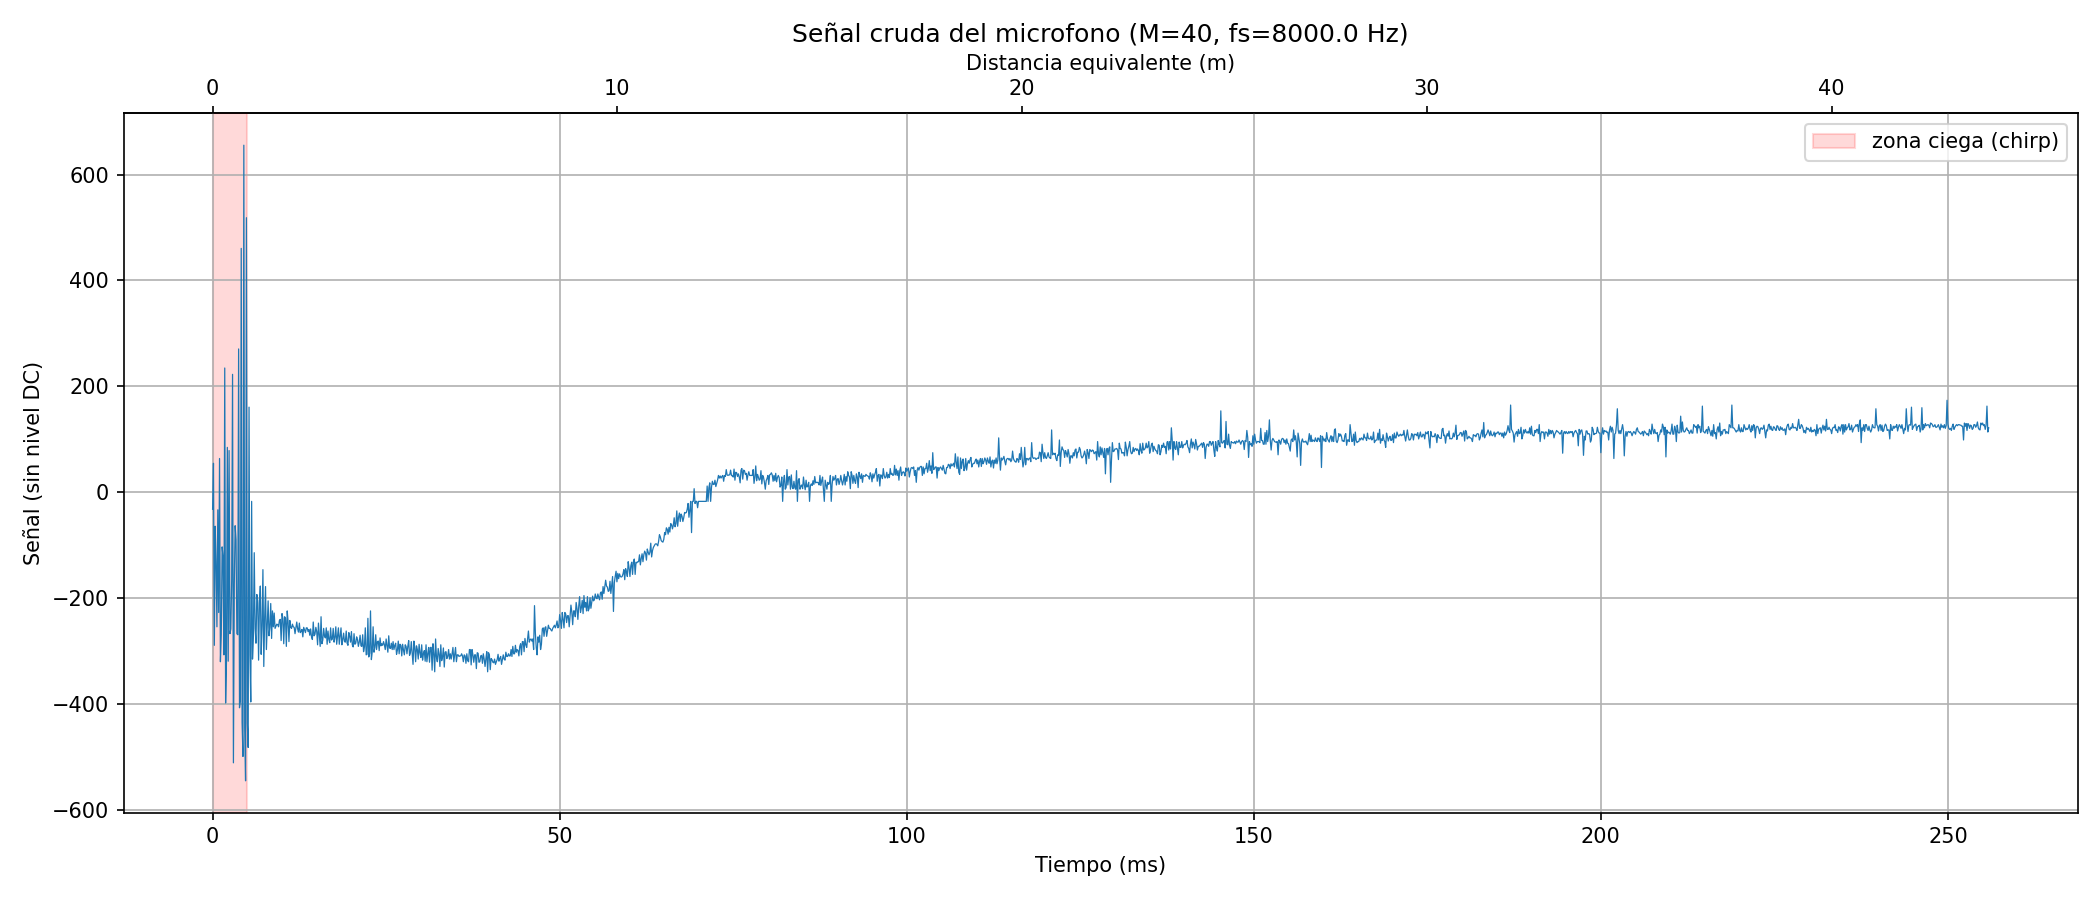
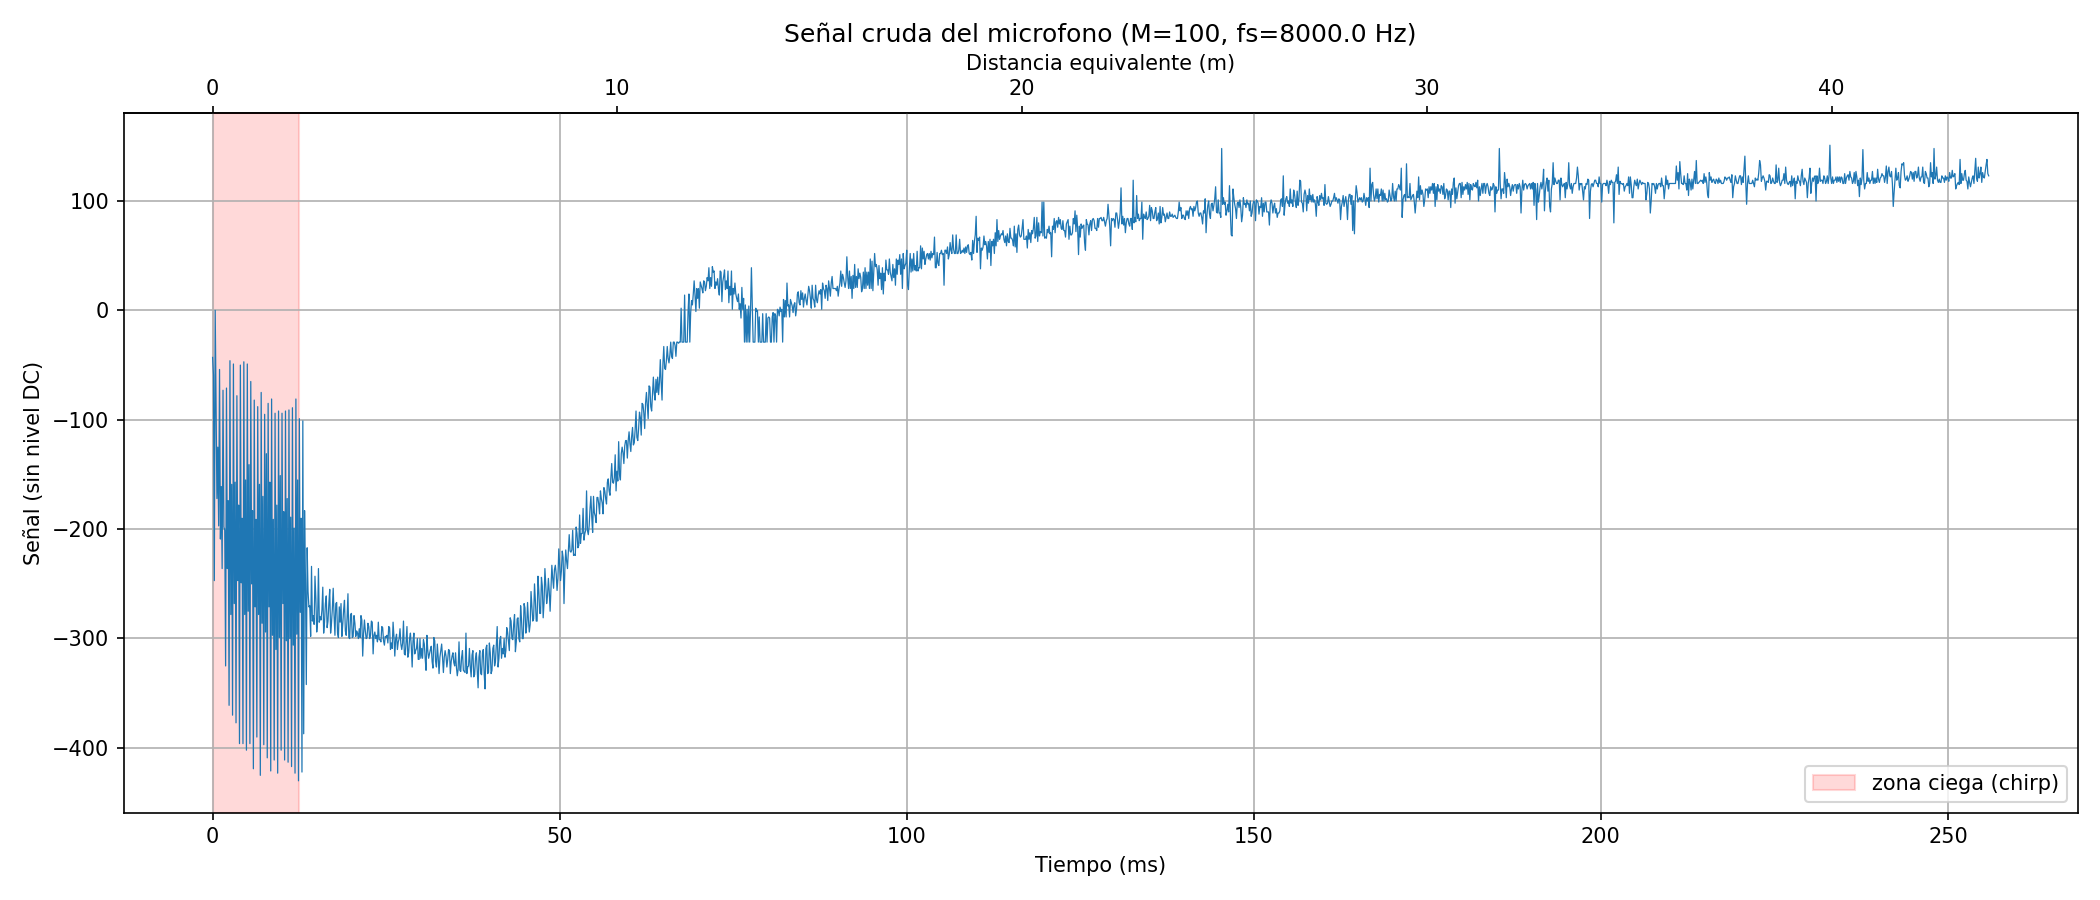
Prueba con pulso simple (tono fijo 2kHz): confirma que la rampa de recuperacion es independiente de la senal transmitida, apunta al KY-038

diff --git a/proyecto_1/punto4/radar_acustico/test/test_script_python.cpp b/proyecto_1/punto4/radar_acustico/test/test_script_python.cpp
@@ -1,71 +1,101 @@
 #include <Arduino.h>
 
-const int PIN_DAC = 25;      // salida al parlante
-const int PIN_MIC = 34;      // entrada del microfono (A0)
+const int PIN_DAC = 25;
+const int PIN_MIC = 34;
 
-const int N = 600;          // muestras a capturar
-const int M = 200;           // muestras del chirp
+const int N = 2048;
+const int M = 40;
 
-// Chirp en frecuencia normalizada (ciclos por muestra)
 const float F0 = 0.10;
 const float F1 = 0.40;
 
+const double FS_FIJA = 8000.0;   // frecuencia de muestreo FIJA, en Hz
+const uint64_t PERIODO_US = (uint64_t)(1000000.0 / FS_FIJA);  // periodo entre muestras
+
 uint8_t  chirp[M];
 uint16_t datos[N];
+
+hw_timer_t *timer = NULL;
+volatile int indice = 0;
+volatile bool capturando = false;
+volatile bool listo = false;
+
+void IRAM_ATTR onTimer() {
+  if (!capturando) return;
+
+  if (indice < M) {
+    dacWrite(PIN_DAC, chirp[indice]);
+  } else {
+    dacWrite(PIN_DAC, 128);
+  }
+
+  datos[indice] = analogRead(PIN_MIC);
+  indice++;
+
+  if (indice >= N) {
+    capturando = false;
+    listo = true;
+  }
+}
 
 void setup() {
   Serial.begin(115200);
   delay(500);
 
-  // tabla del chirp, centrada en 128 porque el DAC es de 8 bits
   for (int n = 0; n < M; n++) {
     float fase = 2 * PI * (F0 * n + (F1 - F0) / (2.0 * M) * n * n);
     chirp[n] = 128 + 110 * sin(fase);
   }
 
-  dacWrite(PIN_DAC, 0);        // parlante en reposo
+  dacWrite(PIN_DAC, 0);
+
+  // timer configurado para disparar exactamente cada PERIODO_US microsegundos
+  timer = timerBegin(0, 80, true);        // prescaler 80: cada tick = 1 us (80MHz/80)
+  timerAttachInterrupt(timer, &onTimer, true);
+  timerAlarmWrite(timer, PERIODO_US, true);  // alarma periodica cada PERIODO_US
+
+  Serial.print("fs fija configurada: ");
+  Serial.println(FS_FIJA, 1);
   Serial.println("Escriba cualquier tecla y Enter para medir");
 }
 
 void loop() {
-  if (!Serial.available()) return;
-  while (Serial.available()) Serial.read();
+  if (Serial.available()) {
+    while (Serial.available()) Serial.read();
 
-  // emision y captura simultaneas, sin pausas
-  unsigned long t0 = micros();
-  for (int i = 0; i < N; i++) {
-    dacWrite(PIN_DAC, i < M ? chirp[i] : 128);
-    datos[i] = analogRead(PIN_MIC);
-  }
-  dacWrite(PIN_DAC, 0);        // apagar el DAC para que el parlante no zumbe
-  unsigned long dt = micros() - t0;
-
-  float fs = N * 1000000.0 / dt;
-
-  // estadisticas de lo captado por el microfono
-  int minimo = 4095, maximo = 0;
-  for (int i = 0; i < N; i++) {
-    if (datos[i] < minimo) minimo = datos[i];
-    if (datos[i] > maximo) maximo = datos[i];
+    indice = 0;
+    listo = false;
+    capturando = true;
+    timerAlarmEnable(timer);
   }
 
-  Serial.println("--- INICIO ---");
-  Serial.print("fs_medida_Hz: ");
-  Serial.println(fs, 1);
-  Serial.print("chirp_f0_Hz: ");
-  Serial.println(F0 * fs, 1);
-  Serial.print("chirp_f1_Hz: ");
-  Serial.println(F1 * fs, 1);
-  Serial.print("duracion_chirp_ms: ");
-  Serial.println(M * 1000.0 / fs, 2);
-  Serial.print("min: ");
-  Serial.print(minimo);
-  Serial.print("  max: ");
-  Serial.print(maximo);
-  Serial.print("  rango: ");
-  Serial.println(maximo - minimo);
-  for (int i = 0; i < N; i++) {
-    Serial.println(datos[i]);
+  if (listo) {
+    timerAlarmDisable(timer);
+    dacWrite(PIN_DAC, 0);
+    listo = false;
+
+    int minimo = 4095, maximo = 0;
+    for (int i = 0; i < N; i++) {
+      if (datos[i] < minimo) minimo = datos[i];
+      if (datos[i] > maximo) maximo = datos[i];
+    }
+
+    Serial.println("--- INICIO ---");
+    Serial.print("fs_medida_Hz: ");
+    Serial.println(FS_FIJA, 1);   // ahora es la fs FIJA que configuramos, no medida
+    Serial.print("chirp_f0_Hz: ");
+    Serial.println(F0 * FS_FIJA, 1);
+    Serial.print("chirp_f1_Hz: ");
+    Serial.println(F1 * FS_FIJA, 1);
+    Serial.print("min: ");
+    Serial.print(minimo);
+    Serial.print("  max: ");
+    Serial.print(maximo);
+    Serial.print("  rango: ");
+    Serial.println(maximo - minimo);
+    for (int i = 0; i < N; i++) {
+      Serial.println(datos[i]);
+    }
+    Serial.println("--- FIN ---");
   }
-  Serial.println("--- FIN ---");
 }

diff --git a/proyecto_1/punto4/radar_acustico/src/main.cpp b/proyecto_1/punto4/radar_acustico/src/main.cpp
@@ -4,38 +4,21 @@ const int PIN_DAC = 25;
 const int PIN_MIC = 34;
 
 const int N = 2048;
-const int M = 40;
+const int M = 100;
 
-const float F0 = 0.10;
-const float F1 = 0.40;
+const float FREQ_TONO = 2000.0;   // tono fijo, no barrido
 
-const double FS_FIJA = 8000.0;   // frecuencia de muestreo FIJA, en Hz
-const uint64_t PERIODO_US = (uint64_t)(1000000.0 / FS_FIJA);  // periodo entre muestras
+const double FS_FIJA = 8000.0;
+const uint64_t PERIODO_US = (uint64_t)(1000000.0 / FS_FIJA);
 
-uint8_t  chirp[M];
+uint8_t  pulso[M];
 uint16_t datos[N];
 
 hw_timer_t *timer = NULL;
-volatile int indice = 0;
-volatile bool capturando = false;
-volatile bool listo = false;
+volatile bool tick = false;
 
 void IRAM_ATTR onTimer() {
-  if (!capturando) return;
-
-  if (indice < M) {
-    dacWrite(PIN_DAC, chirp[indice]);
-  } else {
-    dacWrite(PIN_DAC, 128);
-  }
-
-  datos[indice] = analogRead(PIN_MIC);
-  indice++;
-
-  if (indice >= N) {
-    capturando = false;
-    listo = true;
-  }
+  tick = true;
 }
 
 void setup() {
@@ -43,59 +26,58 @@ void setup() {
   delay(500);
 
   for (int n = 0; n < M; n++) {
-    float fase = 2 * PI * (F0 * n + (F1 - F0) / (2.0 * M) * n * n);
-    chirp[n] = 128 + 110 * sin(fase);
+    float fase = 2 * PI * (FREQ_TONO / FS_FIJA) * n;
+    pulso[n] = 128 + 110 * sin(fase);
   }
 
   dacWrite(PIN_DAC, 0);
 
-  // timer configurado para disparar exactamente cada PERIODO_US microsegundos
-  timer = timerBegin(0, 80, true);        // prescaler 80: cada tick = 1 us (80MHz/80)
+  timer = timerBegin(0, 80, true);
   timerAttachInterrupt(timer, &onTimer, true);
-  timerAlarmWrite(timer, PERIODO_US, true);  // alarma periodica cada PERIODO_US
+  timerAlarmWrite(timer, PERIODO_US, true);
+  timerAlarmEnable(timer);
 
-  Serial.print("fs fija configurada: ");
+  Serial.print("Pulso DAC fijo de ");
+  Serial.print(FREQ_TONO, 0);
+  Serial.print(" Hz, fs fija ");
   Serial.println(FS_FIJA, 1);
   Serial.println("Escriba cualquier tecla y Enter para medir");
 }
 
 void loop() {
-  if (Serial.available()) {
-    while (Serial.available()) Serial.read();
+  if (!Serial.available()) return;
+  while (Serial.available()) Serial.read();
 
-    indice = 0;
-    listo = false;
-    capturando = true;
-    timerAlarmEnable(timer);
+  while (!tick) {}
+  tick = false;
+
+  for (int i = 0; i < N; i++) {
+    while (!tick) {}
+    tick = false;
+
+    dacWrite(PIN_DAC, i < M ? pulso[i] : 128);
+    datos[i] = analogRead(PIN_MIC);
   }
 
-  if (listo) {
-    timerAlarmDisable(timer);
-    dacWrite(PIN_DAC, 0);
-    listo = false;
+  dacWrite(PIN_DAC, 0);
 
-    int minimo = 4095, maximo = 0;
-    for (int i = 0; i < N; i++) {
-      if (datos[i] < minimo) minimo = datos[i];
-      if (datos[i] > maximo) maximo = datos[i];
-    }
-
-    Serial.println("--- INICIO ---");
-    Serial.print("fs_medida_Hz: ");
-    Serial.println(FS_FIJA, 1);   // ahora es la fs FIJA que configuramos, no medida
-    Serial.print("chirp_f0_Hz: ");
-    Serial.println(F0 * FS_FIJA, 1);
-    Serial.print("chirp_f1_Hz: ");
-    Serial.println(F1 * FS_FIJA, 1);
-    Serial.print("min: ");
-    Serial.print(minimo);
-    Serial.print("  max: ");
-    Serial.print(maximo);
-    Serial.print("  rango: ");
-    Serial.println(maximo - minimo);
-    for (int i = 0; i < N; i++) {
-      Serial.println(datos[i]);
-    }
-    Serial.println("--- FIN ---");
+  int minimo = 4095, maximo = 0;
+  for (int i = 0; i < N; i++) {
+    if (datos[i] < minimo) minimo = datos[i];
+    if (datos[i] > maximo) maximo = datos[i];
   }
+
+  Serial.println("--- INICIO ---");
+  Serial.print("fs_medida_Hz: ");
+  Serial.println(FS_FIJA, 1);
+  Serial.print("min: ");
+  Serial.print(minimo);
+  Serial.print("  max: ");
+  Serial.print(maximo);
+  Serial.print("  rango: ");
+  Serial.println(maximo - minimo);
+  for (int i = 0; i < N; i++) {
+    Serial.println(datos[i]);
+  }
+  Serial.println("--- FIN ---");
 }

diff --git a/proyecto_1/punto4/graficar.py b/proyecto_1/punto4/graficar.py
@@ -3,10 +3,10 @@ import numpy as np
 import matplotlib.pyplot as plt
 import serial
 
-PUERTO = '/dev/ttyUSB0'
+PUERTO = '/dev/ttyUSB1'
 BAUD = 115200
 N = 2048
-M = 40
+M = 100
 FS = 8000.0
 
 
